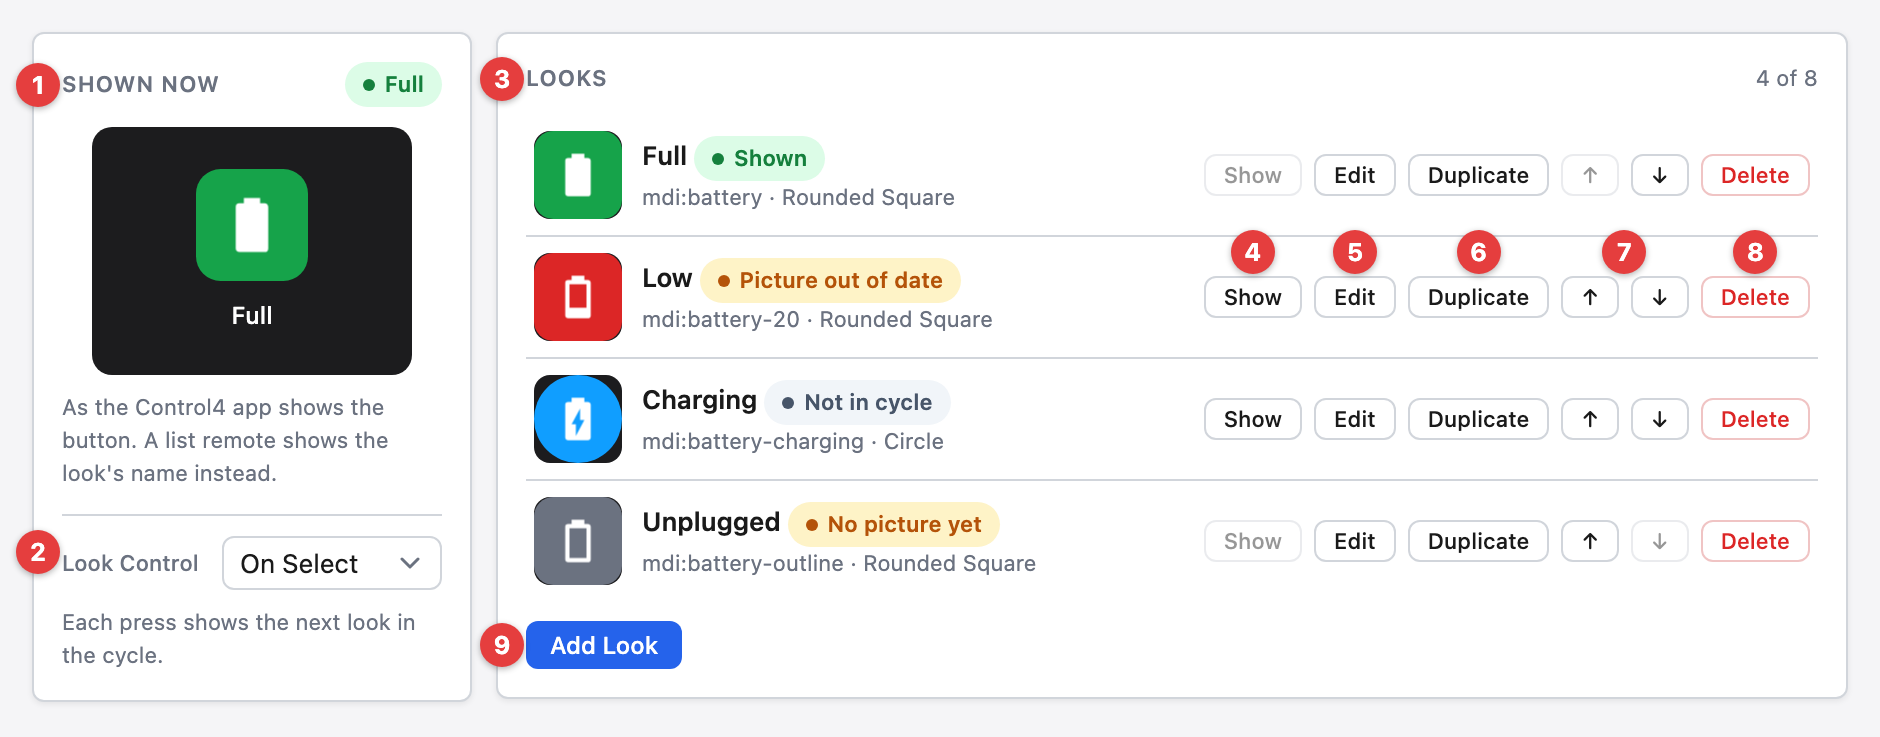
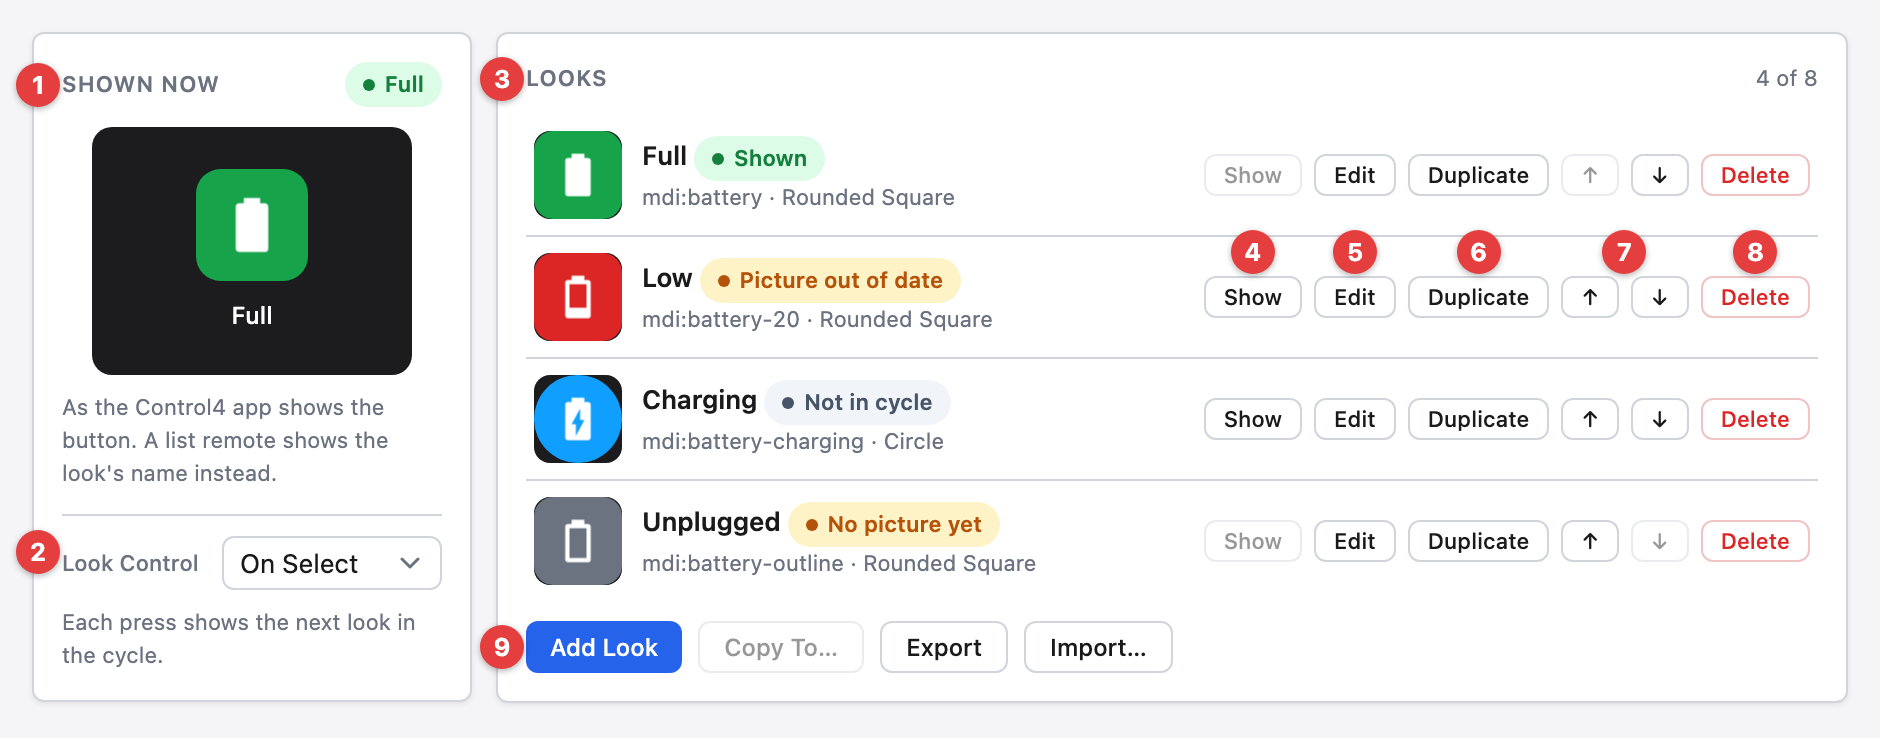
docs: Copy To, Export and Import

diff --git a/drivers/dynamic_button/www/documentation/index.md b/drivers/dynamic_button/www/documentation/index.md
@@ -48,6 +48,7 @@ the programming you attach to it.
     - [Icon Packs](#icon-packs)
     - [Free Icon Libraries](#free-icon-libraries)
     - [My Images](#my-images)
+    - [Copy To, Export and Import](#copy-to-export-and-import)
   - [Cycling Through Looks](#cycling-through-looks)
   - [Following a Value](#following-a-value)
     - [Show When Syntax](#show-when-syntax)
@@ -82,6 +83,8 @@ the programming you attach to it.
   fourteen free icon packs
 - Your own pictures: an uploaded file, pasted SVG, or a picture from a web
   address, kept as fetched or refreshed on a schedule
+- Looks copied to other Dynamic Buttons in the project, or exported to a file
+  and imported into a button in another project
 - Three icon packs of 100 subjects each: Classic Device and Classic Tile, which
   match the OS 3 look, and Modern, which matches the X4 look, with on, off and
   alert pictures where a subject has states
@@ -401,6 +404,37 @@ Except on a picture that refreshes, `Tile shape`, `Tile color`, `Grayscale`,
 `Save Look` sends a new picture to the controller before the look. Your pictures
 are kept with the button: one that no look uses is deleted 10 minutes after it
 was added, and all of them go when the button is deleted or reset.
+
+### Copy To, Export and Import
+
+<img alt="Button tab - Copy To" src="./images/ui-copy-looks.png" width="640"/>
+
+1. **Copy To…** - copies looks to other Dynamic Buttons in this project. It is
+   off when the button has no looks or the project has no other Dynamic Button.
+1. **Copy these looks** - the looks to copy. All of them are checked to start.
+1. **To these Dynamic Buttons** - the buttons to copy them to, by room and name.
+1. **Add to their looks / Replace their looks** - `Add` puts the looks after a
+   button's own, as many as fit in its eight. `Replace` deletes a button's looks
+   first, and the default look among the copies becomes its default.
+1. **Copy** - copies to one button after another and shows a line for each: how
+   many looks it got, how many didn't fit, and what stopped it.
+
+A copy brings everything a look has: its picture, colors, tile shape, `Cycle`,
+`Show when` and badge. Your own pictures go with the looks and are kept by the
+other button as its own, and a picture that refreshes is fetched by the other
+button from the same address. A look whose name the other button already uses
+gets the next number. A button without an active license keeps its looks and
+gets none.
+
+`Export` saves the button's looks and your own pictures in one file named after
+the button, ending in `.dynamic-button.json`.
+
+`Import…` opens such a file and lists its looks, with
+`Add to this button's looks` or `Replace this button's looks`. A picture in the
+file goes through the same checks as an uploaded file or pasted SVG, and a look
+that uses an icon this driver doesn't have is left out. `Show when` and badge
+text name devices by their id in the project the file came from, so check them
+after importing into another project.
 
 ## Cycling Through Looks
 

diff --git a/CHANGELOG.md b/CHANGELOG.md
@@ -54,6 +54,9 @@ Template for a new release entry (copy below the heading, fill in, uncomment):
   again every minute, 5 minutes, 15 minutes or hour while its look shows, and
   shows it as the site sends it, with Refresh Web Picture and Set Web Address
   commands
+- Added Copy To, Export and Import to the Looks card: chosen looks, with their
+  own pictures, go to other Dynamic Buttons in the project, added to or
+  replacing theirs, or to a file that another button imports
 - Added Icon and Badge sections to each look: the picture's colors with its
   shading kept, the glow's color, its size and position, and a badge of up to
   five characters in the size you pick
